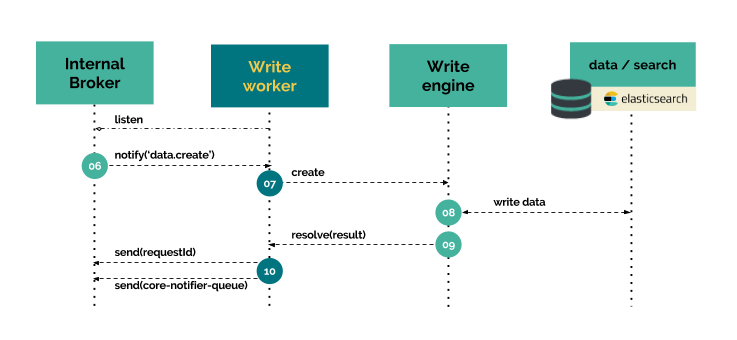
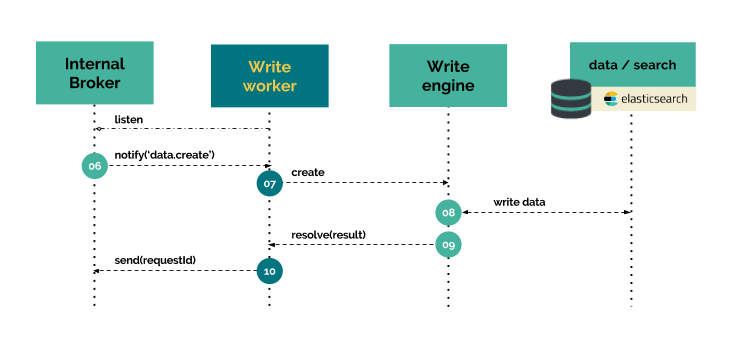
update request scenarios to follow new implentation.

Changed region(s): [[0.1248, 0.7353, 0.3433, 0.8529]]

diff --git a/source/includes/core_documentation/_02-request-scenarios.md b/source/includes/core_documentation/_02-request-scenarios.md
@@ -467,8 +467,6 @@ Detailed workflow:
 
 \#10. The worker sends the feedback message from ElasticSearch to the worker _response_ queue (see \#5).
 
-The worker also sends a notification message to the internal broker, to notify subscribing clients, if any (see next section).
-
 ##### 3rd step: Send feedback
 
 Involved components overview:
@@ -606,7 +604,7 @@ The "_publish_" method can be triggered:
 
 ![pubsub_scenario_details2](./images/request-scenarios/pubsub/details3.png)
 
-\#1. The ```Notifier``` component is notified about a new action by the ```Internal Broker``` (see [step \#10. in write scenario](#writing-persistent-data)).
+\#1. The ```Notifier``` component is notified about a new action by the ```Write Controller``` (see [step \#11. in write scenario](#writing-persistent-data)).
 
 \#2. The ```Notifier``` calls the ```Notification Cache``` to get the rooms related to the content.
 
